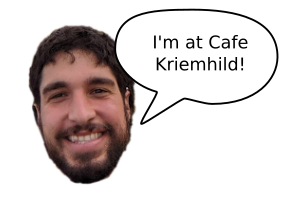
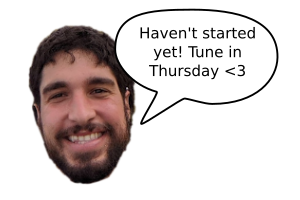
added the rest of the content

Changed region(s): [[0.45, 0.12, 0.87, 0.42]]

diff --git a/frontend/src/About.tsx b/frontend/src/About.tsx
@@ -1,0 +1,29 @@
+function About() {
+  return (
+    <div className="About content" id="about">
+      <h1>what the fudge?</h1>
+      <p>cafe crawl 2021 is happening this thursday the 14th 🥳</p>
+      <p>
+        its that time of year again! for the first (and probably the last)
+        annual cafe crawl 🎉 this years special because, as most of you probably
+        know, im moving next week 😥 and im hoping to go out quietly... so, i
+        was thinking, because ive probably met most of you beautiful people in
+        some way or another over a cup of ☕, i should go through most of the
+        cafes that are near and dear to my heart and enjoy one more
+        coffee/beer/spritzer/etc with y'all 😘
+      </p>
+      <p>
+        anyways down to how it works: i got a list of cafes down below 👇 and i
+        have a map with my face on it above 👆. im going to try to keep to the
+        schedule on the list, and as i go around on thursday ill keep the map
+        updated. come find me and join me 🤗 grab a cup of coffee for 30
+        minutes. join me for the whole day. invite friends, family, lovers,
+        enemies, whoever. whatever you want, i just wanna see your lovely faces
+        if you have time.
+      </p>
+      <img src="https://media.giphy.com/media/l1IY8onMgFEotIzew/giphy.gif" />
+    </div>
+  );
+}
+
+export default About;

diff --git a/frontend/src/Stops.tsx b/frontend/src/Stops.tsx
@@ -1,0 +1,35 @@
+import "./Stops.css";
+import { STOPS } from "./stops";
+
+function Stops() {
+  return (
+    <div className="Stops content" id="spots">
+      <h1>spots</h1>
+      {STOPS.map((stop) => {
+        return (
+          <div className="stop" key={stop.name}>
+            <div className="descriptor">
+              <h2>
+                {stop.name}
+                <span className="subtitle">{stop.notes}</span>
+              </h2>
+              <a
+                className="google-map-link"
+                href={stop.google_maps}
+                target="blank"
+              >
+                Get Directions
+              </a>
+            </div>
+            <div className="times">
+              <div className="time">{stop.start_time}</div>
+              <div className="time">{stop.stop_time}</div>
+            </div>
+          </div>
+        );
+      })}
+    </div>
+  );
+}
+
+export default Stops;

diff --git a/frontend/src/Header.css b/frontend/src/Header.css
@@ -1,0 +1,56 @@
+.Header {
+  position: absolute;
+  width: 100%;
+  top: 0;
+}
+
+.HeaderContent {
+  display: flex;
+  justify-content: space-between;
+  align-items: center;
+}
+
+.Logo {
+  width: 15em;
+}
+
+.nav-items {
+  display: flex;
+}
+
+.nav-item {
+  padding: 0.5em 2em;
+}
+
+.nav-item a {
+  font-size: 2em;
+  font-weight: bold;
+  position: relative;
+  top: 0;
+  text-shadow: 0.5em 0.5em 0.5em #951997;
+  transition: all 0.2s;
+}
+
+.nav-item a:hover {
+  top: -0.2em;
+  text-shadow: 0.5em 0.7em 0.7em #951997;
+}
+
+@media screen and (max-width: 800px) {
+  .nav-items {
+    display: block;
+  }
+  .nav-item {
+    padding-right: 0;
+    padding-left: 1em;
+  }
+}
+
+@media screen and (max-width: 500px) {
+  .HeaderContent {
+    display: block;
+  }
+  .nav-item {
+    padding-left: 0;
+  }
+} ;

diff --git a/frontend/src/App.tsx b/frontend/src/App.tsx
@@ -4,11 +4,15 @@ import Map from "./Mapbox/Map";
 import Admin from "./Admin";
 import StateProvider from "./StateProvider";
 import Head from "./Head";
+import Stops from "./Stops";
+import About from "./About";
+import Header from "./Header";
 
 function App() {
   return (
     <div className="App">
       <StateProvider>
+        <Header />
         <Map
           styleUrl="mapbox://styles/jpopesculian/ckuldgwfj3sk517q1b8j9wf3y"
           accessToken="pk.eyJ1IjoianBvcGVzY3VsaWFuIiwiYSI6ImNKdFQ0YTQifQ.Cd0WdGn5B7TquMZGqJEyPw"
@@ -17,6 +21,8 @@ function App() {
         >
           <Head />
         </Map>
+        <About />
+        <Stops />
         <Admin />
       </StateProvider>
     </div>

diff --git a/frontend/src/index.css b/frontend/src/index.css
@@ -1,13 +1,17 @@
 body {
   margin: 0;
-  font-family: -apple-system, BlinkMacSystemFont, 'Segoe UI', 'Roboto', 'Oxygen',
-    'Ubuntu', 'Cantarell', 'Fira Sans', 'Droid Sans', 'Helvetica Neue',
+  font-family: -apple-system, BlinkMacSystemFont, "Segoe UI", "Roboto", "Oxygen",
+    "Ubuntu", "Cantarell", "Fira Sans", "Droid Sans", "Helvetica Neue",
     sans-serif;
   -webkit-font-smoothing: antialiased;
   -moz-osx-font-smoothing: grayscale;
 }
 
 code {
-  font-family: source-code-pro, Menlo, Monaco, Consolas, 'Courier New',
+  font-family: source-code-pro, Menlo, Monaco, Consolas, "Courier New",
     monospace;
+}
+
+div {
+  box-sizing: border-box;
 }

diff --git a/frontend/src/Header.tsx b/frontend/src/Header.tsx
@@ -1,0 +1,21 @@
+import "./Header.css";
+
+function Header() {
+  return (
+    <div className="Header">
+      <div className="HeaderContent content">
+        <img className="Logo" src="./cafecrawl.png" />
+        <div className="nav-items">
+          <div className="nav-item">
+            <a href="#about">what the fudge?</a>
+          </div>
+          <div className="nav-item">
+            <a href="#spots">spots</a>
+          </div>
+        </div>
+      </div>
+    </div>
+  );
+}
+
+export default Header;

diff --git a/frontend/src/Stops.css b/frontend/src/Stops.css
@@ -1,0 +1,27 @@
+.stop {
+  display: flex;
+  justify-content: space-between;
+  align-items: center;
+  margin-bottom: 1em;
+  padding-bottom: 1em;
+  border-bottom: 1px dashed #00f;
+}
+
+.stop:last-child {
+  border-bottom: none;
+}
+
+.descriptor {
+  padding-right: 1em;
+}
+
+.subtitle {
+  padding-left: 1em;
+  font-size: 0.5em;
+}
+
+.times {
+  padding-top: 1em;
+  font-family: monospace;
+  font-size: 2em;
+}

diff --git a/frontend/src/App.css b/frontend/src/App.css
@@ -9,6 +9,32 @@ button {
   padding: 1em 2em;
 }
 
+h1 {
+  font-size: 4em;
+}
+
+h2 {
+  font-size: 2em;
+  margin-bottom: 0.25em;
+}
+
+a {
+  text-decoration: none;
+  color: #da00ff;
+}
+
+p {
+  font-size: 1.25em;
+  line-height: 1.4em;
+}
+
 .hidden {
   display: none !important;
+}
+
+.content {
+  margin: 0 auto;
+  padding: 2em;
+  width: 100%;
+  max-width: 60em;
 }

diff --git a/frontend/src/Admin.css b/frontend/src/Admin.css
@@ -2,13 +2,14 @@
   height: 4em;
   display: flex;
   justify-content: flex-end;
+  position: relative;
 }
 
 .AdminPanel {
   position: absolute;
   bottom: 0;
   right: 0;
-  height: 100%;
+  height: 100vh;
   background: #fff;
   width: 100%;
   display: flex;

diff --git a/frontend/src/Head.tsx b/frontend/src/Head.tsx
@@ -16,7 +16,6 @@ function Head() {
   const state = useContext(StateContext);
 
   useEffect(() => {
-    console.log(state.value);
     fetch(`./head${state.value}.png`)
       .then((res) => res.blob())
       .then((blob) => blobToBase64(blob))

diff --git a/frontend/src/Mapbox/Map.css b/frontend/src/Mapbox/Map.css
@@ -1,5 +1,6 @@
 .Map {
   width: 100%;
-  height: 100vh;
+  min-height: 500px;
+  height: calc(100vh - 10em);
   overflow: hidden;
 }

diff --git a/frontend/src/About.css b/frontend/src/About.css
@@ -1,0 +1,3 @@
+.About img {
+  max-width: 100%;
+}
